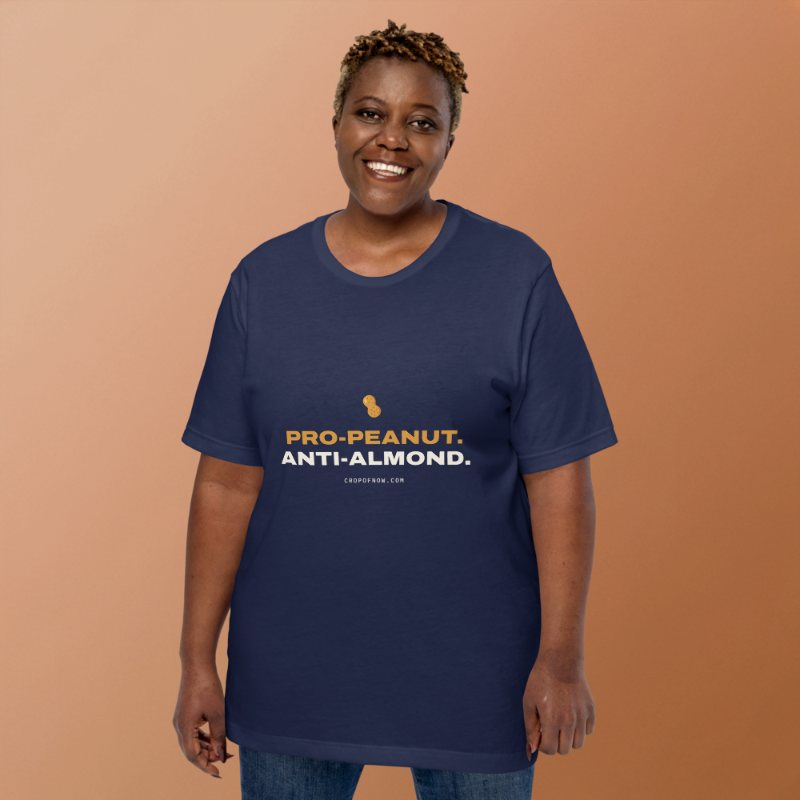
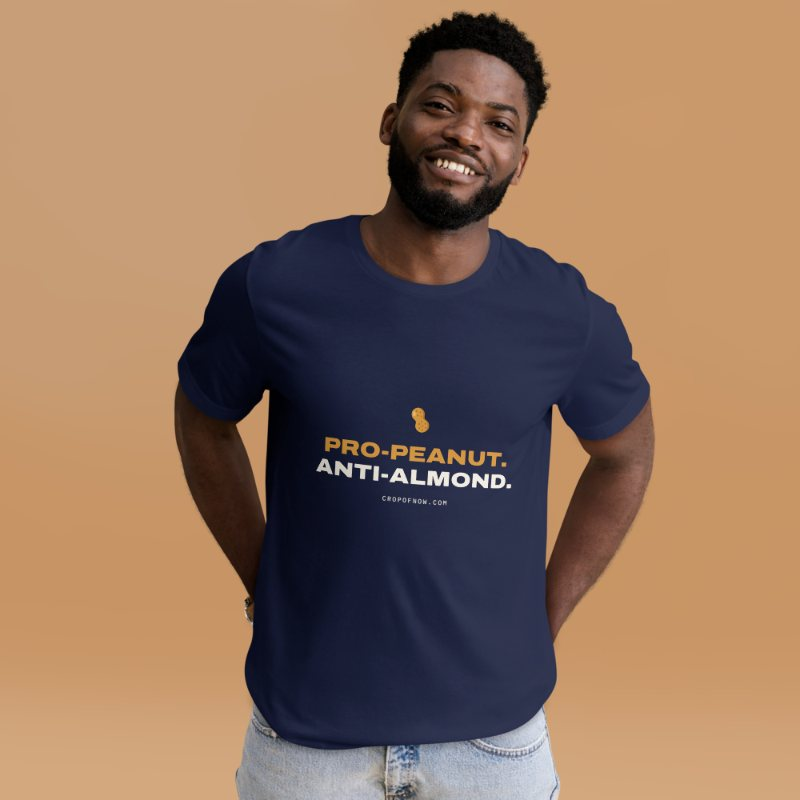
New model photo and description for the Pro-Peanut tee

diff --git a/shop.html b/shop.html
@@ -28,9 +28,9 @@
   <section class="block">
     <div class="wrap grid grid-3">
       <article class="product">
-        <div class="mock photo"><img src="assets/img/products/tee-pro-peanut.jpg" alt="Navy t-shirt reading Pro-Peanut. Anti-Almond." loading="lazy" width="800" height="800"><img class="alt" src="assets/img/products/tee-pro-peanut-detail.jpg" alt="" loading="lazy" width="800" height="800"></div>
+        <div class="mock photo"><img src="assets/img/products/tee-pro-peanut.jpg" alt="Smiling man in a navy t-shirt reading Pro-Peanut. Anti-Almond." loading="lazy" width="800" height="800"><img class="alt" src="assets/img/products/tee-pro-peanut-detail.jpg" alt="" loading="lazy" width="800" height="800"></div>
         <div class="body"><span class="badge">Flagship</span><h3>Pro-Peanut. Anti-Almond. Tee</h3>
-          <p>The company position, on cotton.</p><span class="price">$28</span>
+          <p>Standard issue for all shareholders. Suitable for boardrooms, ballparks and ending almond-butter conversations early.</p><span class="price">$28</span>
           <a class="btn btn-primary" data-product="pro-peanut-anti-almond-tee">Buy now</a></div>
       </article>
       <article class="product">
